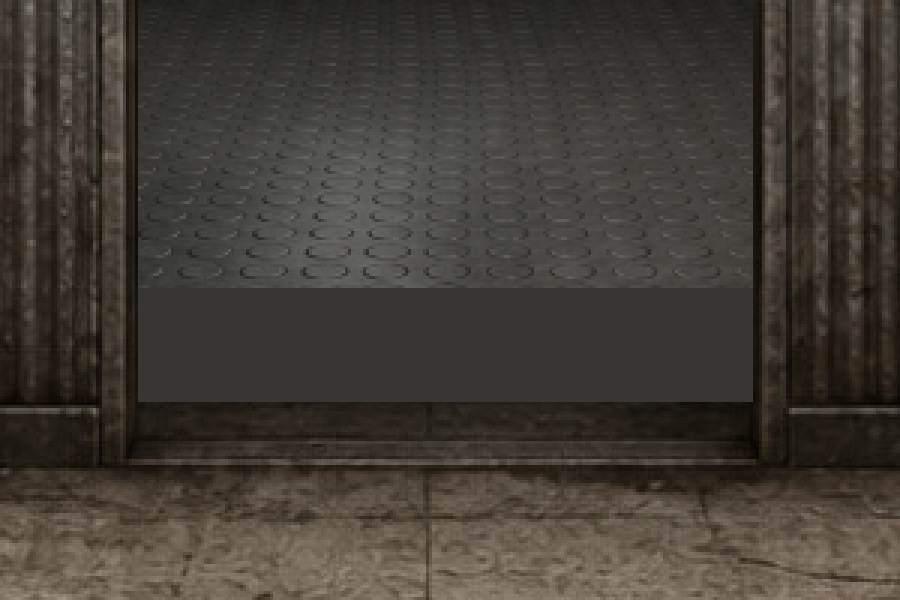
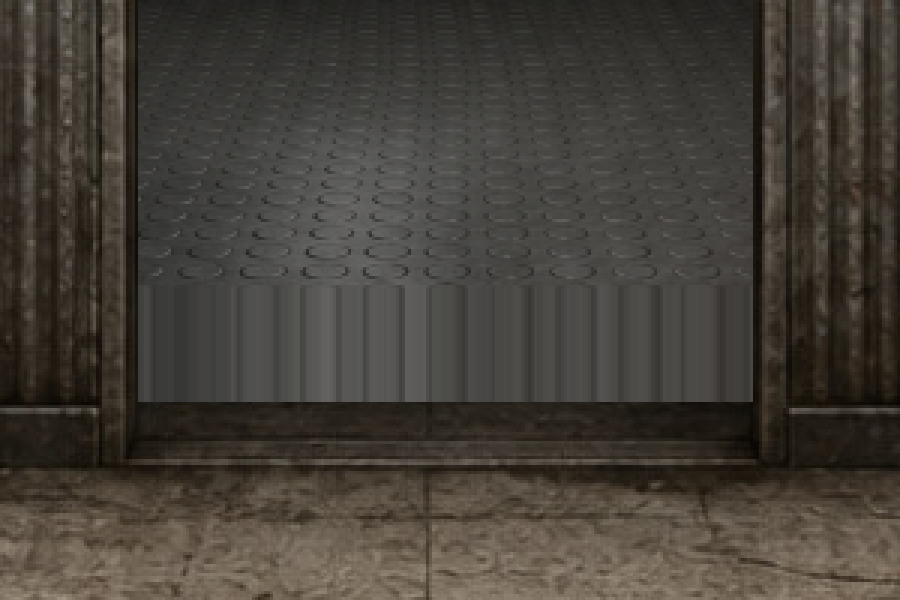
Through-view: the far frame moves down to butt against the doorway's foot when a gap would exist (join the edge, do not fill the gap)

Changed region(s): [[0.2489, 0.48, 0.4978, 0.69], [0.6222, 0.48, 0.6844, 0.69]]

diff --git a/src/renderer.js b/src/renderer.js
@@ -1697,6 +1697,16 @@
     var sDest = destMeta.px_per_m_at_wall;
     var dx = W / 2 + k * ((a.beyond_offset_m || 0) * sDest - W / 2);
     var dy = hHere - k * hDest;
+    /* [Kabe, 2026-08-29] JOIN THE EDGE, DO NOT FILL THE GAP. With the horizons
+       coincident the far frame's bottom lands above the doorway's foot (row 25's
+       fill, then a combed floor, stood in the strip). "Just MOVE the background
+       source image of that room to butt up against the foreground image at the
+       bottom of the doorframe" - so when a gap would exist the far frame is
+       moved down until its bottom edge sits on the threshold; the horizons then
+       differ by the gap, a smaller lie than any invented floor. When the far
+       frame already reaches the foot, nothing moves. */
+    var footHere = a.y + a.h;
+    if (dy + dh < footHere) dy = footHere - dh;
     var dw = W * k, dh = H * k;
     ctx.save();
     ctx.beginPath();
